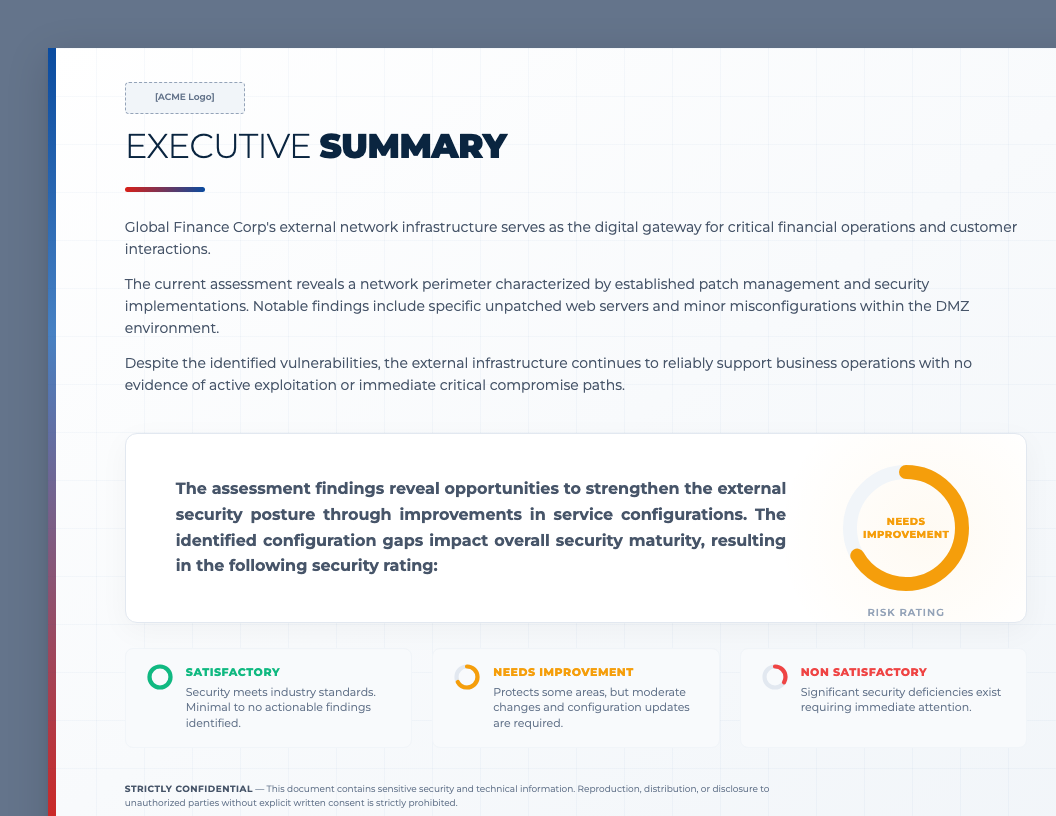
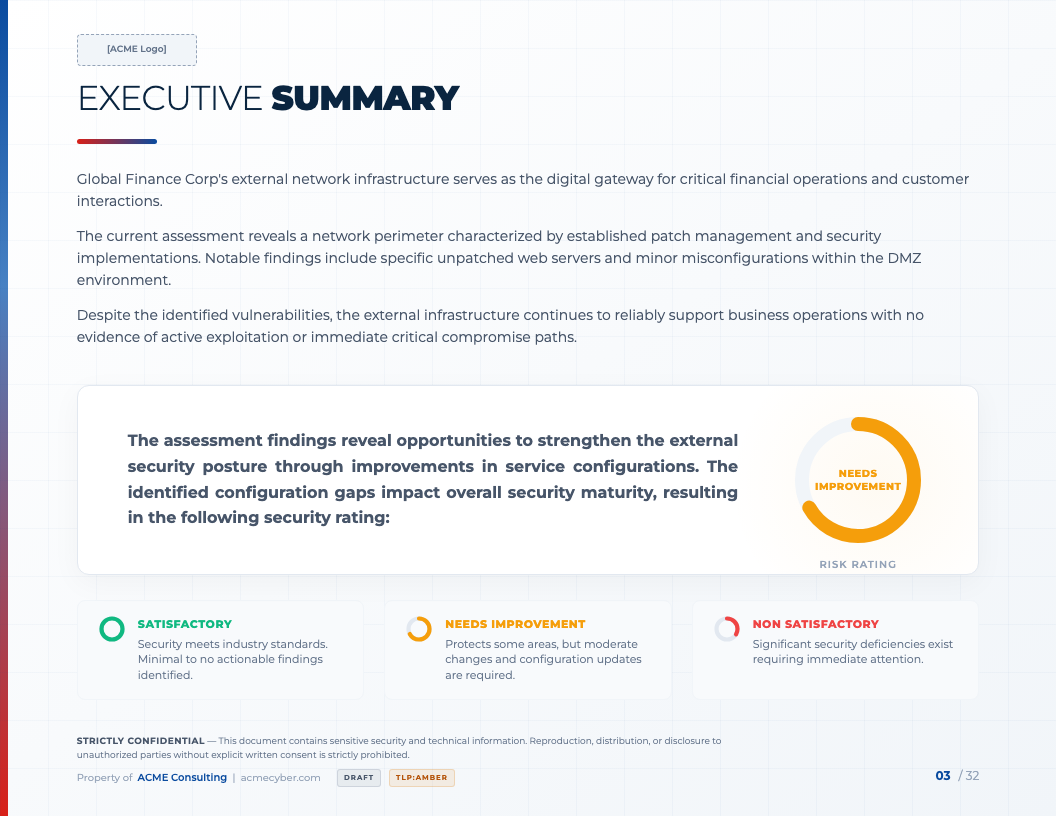
fix: gallery thumbnails show the whole slide
On screen each archetype sits inside 0.5in of body padding, so viewport captures
put a slate band along the top and left of every thumbnail and cut 48 px off the
right and bottom, including part of the footer. make_images.py now captures the
.slide element itself; the thumbnail test compares against the slide element.

diff --git a/scripts/make_images.py b/scripts/make_images.py
@@ -10,11 +10,13 @@ def generate_images():
     slides = sorted((REPOSITORY / 'archetypes').glob('[0-9][0-9]-Slide-*.html'))
     with serve() as url, sync_playwright() as p:
         browser = p.chromium.launch(headless=True, args=CHROMIUM_ARGS)
-        page = new_page(browser, viewport=(1056, 816))  # 11in x 8.5in at 96 dpi
+        # On screen an archetype sits inside 0.5in of padding: leave room for it, then capture
+        # the slide itself (11in x 8.5in, 1056 x 816 px), not the viewport around it.
+        page = new_page(browser, viewport=(1152, 912))
         for slide in slides:
             load(page, f'{url}/archetypes/{slide.name}')
             output = ASSETS / f'slide_{slide.name[:2]}.png'
-            page.screenshot(path=str(output))
+            page.locator('.slide').first.screenshot(path=str(output))
             print(f'Saved {output}')
         browser.close()
 

diff --git a/tests/test_archetypes.py b/tests/test_archetypes.py
@@ -20,7 +20,7 @@ class ArchetypeTests(unittest.TestCase):
         for path in archetypes():
             opened = cls.chromium.open(f'archetypes/{path.name}')
             # Screen captures first: printing makes chart libraries reflow for the page.
-            screenshot = opened.screenshot()
+            screenshot = opened.slide_screenshots()[0]
             slides = opened.slides()
             cls.rendered[slide_number(path)] = {
                 'slides': slides,

diff --git a/tests/harness.py b/tests/harness.py
@@ -137,6 +137,11 @@ class Opened:
     def screenshot(self) -> bytes:
         return self.page.screenshot()
 
+    def slide_screenshots(self) -> list[bytes]:
+        """Each .slide exactly, wherever the page places it on screen."""
+        slides = self.page.locator('.slide')
+        return [slides.nth(i).screenshot() for i in range(slides.count())]
+
     def close(self):
         self.page.context.close()
 
